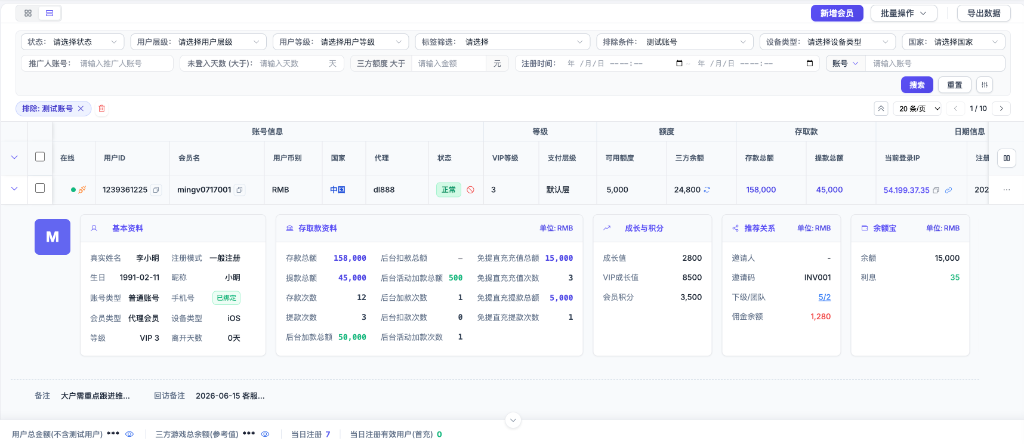
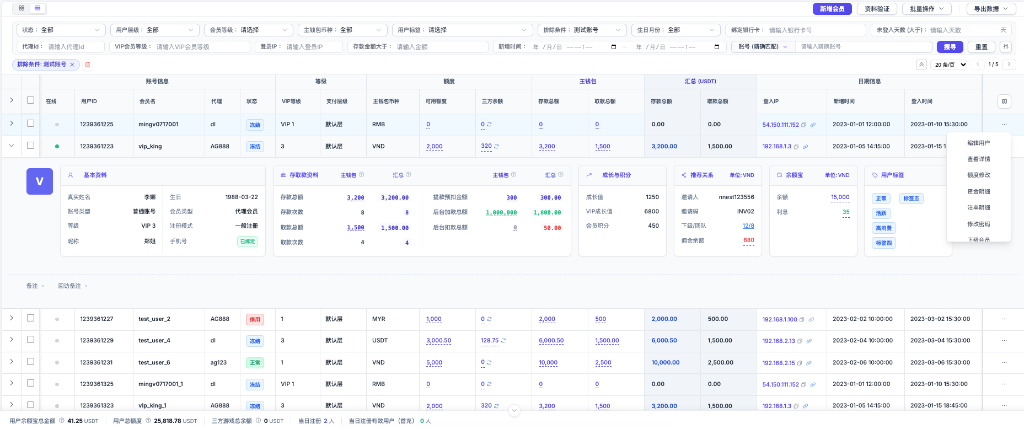
style: update prototype layout image and remove overview english subtitle

diff --git a/section-2.html b/section-2.html
@@ -179,7 +179,7 @@
             <div class="feature-box-header" style="justify-content: space-between; align-items: center; margin-bottom: 12px;">
               <div style="display: flex; align-items: center; gap: 8px;">
                 <div class="feature-icon" style="background: rgba(59, 130, 246, 0.12); color: var(--primary);">🖥</div>
-                <div class="feature-title" style="font-size: 15px; font-weight: 700;">改版主作業介面全景佈局 (Prototype Layout Overview)</div>
+                <div class="feature-title" style="font-size: 15px; font-weight: 700;">改版主作業介面全景佈局</div>
               </div>
               <a href="https://pm-doc-new-sports.pages.dev/" target="_blank" class="badge-tag badge-primary" style="text-decoration: none; font-size: 11.5px; padding: 4px 10px;">
                 🔗 開啟線上原型 ↗
